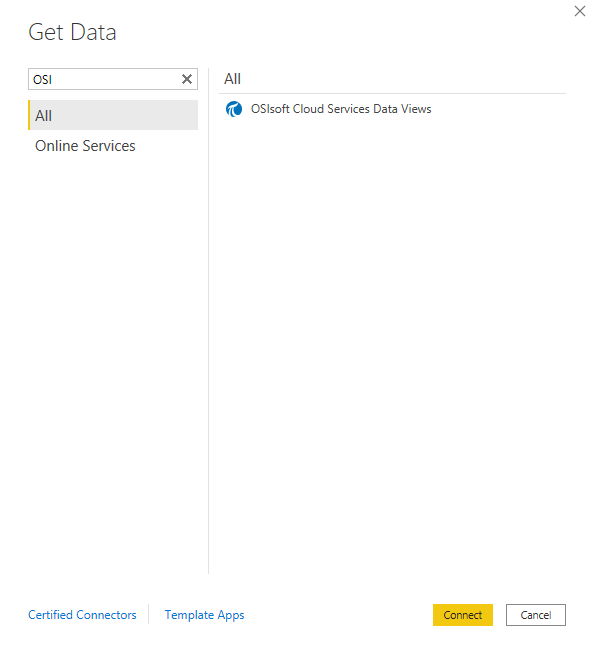
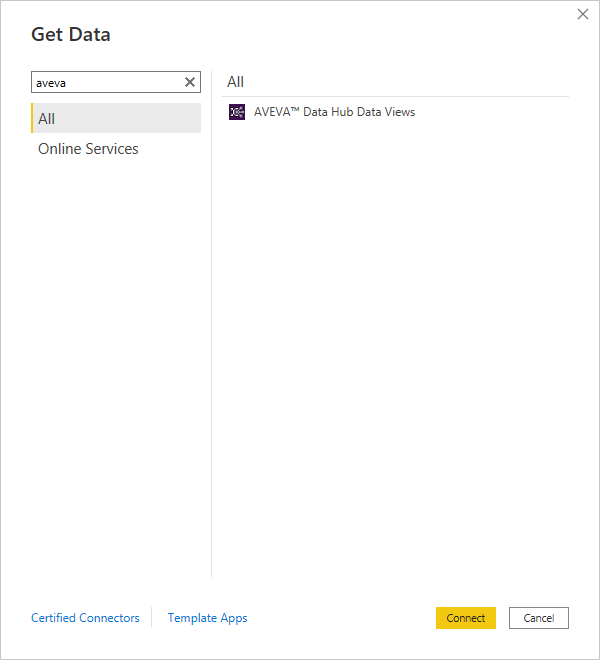
update for Power BI Connector release

diff --git a/content/visualize-data/power-bi-connector.md b/content/visualize-data/power-bi-connector.md
@@ -24,23 +24,27 @@ The following are required before you install and use AVEVA Data Hub Power BI Co
 
 To install the AVEVA Data Hub Power BI Connector, follow these steps:
 
-1. Download the `OCSPowerBIConnector.exe` file from the [OSIsoft Customer portal](https://customers.osisoft.com/s/products).
+1. In the left pane, select **Analytics** > **Data Views**.
 
-1. Install AVEVA Data Hub Power BI Connector by either the setup wizard or silent installation.
+1. Select **Download Power BI Connector**.
 
-    - Setup wizard
+1. On the `Power BI Connector Installer Download` window, select **Download**. When the download completes, close the window.
 
-        - Double-click the `OCSPowerBIConnector.exe` file and select **Next**.
+1. Open the downloaded Power BI Connector installation file, then select **Yes** to confirm running the installation file.
 
-        - (Optional) To install the connector to an on-premises data gateway, select `On-premises data gateway installation` and enter the directory where you want to install the connector.
+1. Accept or change the temporary setup extraction folder and select **OK**.
 
-    - Silent installation
+   The AVEVA Data Hub Power BI Connector Setup Wizard opens.
 
-        - Open a command prompt window and type following command:
+1. Select **Next**.
 
-        `.\OCSDataConnectorInstaller.exe -Y INSTALLDIR="<install path>" /quiet`
+1. (Optional) To install the connector to an on-premises data gateway, select `On-premises data gateway installation` and enter the directory where you want to install the connector.
 
-             **Note:** AVEVA Data Hub Power BI Connector supports silent installation for on-premises data gateway installations.
+1. Select **Next**.
+
+1. Select **Install**.
+
+1. Select **Finish** to exit the Setup Wizard.
 
 ## Retrieve Data Views with Power BI Connector
 
@@ -48,21 +52,21 @@ Use AVEVA Data Hub Power BI Connector to retrieve AVEVA Data Hub data views for 
 
 To retrieve data views, follow these steps:
 
-1. In Microsoft Power BI Desktop, in the entry field of the `Get Data` window, type `OSI`.<br>The AVEVA Data Hub Data Views connector file displays in the `All` pane.
+1. In Microsoft Power BI Desktop, in the entry field of the `Get Data` window, type `AVEVA`.<br>The AVEVA Data Hub Data Views connector file displays in the `All` pane.
 
    ![Get Data](./images/get-data.png)
 
-1. Select the `OSIsoft Cloud Services Data Views` connector file, and then select **Connect**.
+1. Select the `AVEVA Data Hub Data Views` connector file, and then select **Connect**.
 
 1. Select **Continue** in the `Connecting to a third-party service` warning.
 
-1. In the `OSIsoft Cloud Services Data Views` window, enter the tenant and namespace for the data views you want to access, and then select **OK**.
+1. In the `AVEVA Data Hub Data Views` window, enter the namespace for the data views you want to access, and then select **OK**.
 
    The AVEVA Data Hub sign-in window displays if you have not already signed in.
 
-    - If you have not already signed in, select **Sign in as different user** and complete the user authentication process.
+   - Select **Sign in** and complete the user authentication process.
 
-1. In the `OSIsoft Cloud Services Data Views` sign-in window, select **Connect**.
+   - In the `AVEVA Data Hub Data Views` sign-in window, select **Connect**.
 
 1. In the `Navigator` pane, do one of the following: 
 
@@ -84,9 +88,9 @@ To retrieve data views, follow these steps:
 
 Use Microsoft Power BI to edit the query generated from the connector to modify the Start Index and End Index to fixed dates or relative dates, as well as edit the Interpolation Interval (if applicable). You can also use Microsoft Power BI to enable an incremental refresh of data.
 
-1. In Microsoft Power BI, select **Transform data** to view the query with Power Query Editor.
+1. In Microsoft Power BI, select **Transform Data** to view the query with Power Query Editor.
 
-1. Select **View**, and then select **Formula Bar** to view the query function from the connector.
+1. Select the **View** tab, and then select **Formula Bar** to view the query function from the connector.
 
     ![Transform data](./images/mspowerbi-function.png)
     
@@ -96,7 +100,7 @@ Use Microsoft Power BI to edit the query generated from the connector to modify 
 
     - Modify for fixed dates:
     
-       a. Navigate to `APPLIED STEPS` in the `Query Settings` pane, right-click on the parameter labeled, `Invoked Function <nameofdataview>`, and then select `Edit Settings` in the dropdown menu.
+       a. Navigate to `APPLIED STEPS` in the `Query Settings` pane, right-click on the parameter labeled, `Invoked Function <nameofdataview>`, and then select `Edit Settings` in the menu.
         
        b. Edit the parameter values for Start Index and End Index. If applicable, edit the Interpolation Interval.
         
@@ -104,7 +108,7 @@ Use Microsoft Power BI to edit the query generated from the connector to modify 
 
     - Modify for relative dates:
     
-       a. Edit the query function with Power Query M Formula Language code. For information about Power Query M Formula Language code, see the Microsoft [Power Query M formula language](https://docs.microsoft.com/en-us/powerquery-m/) and [Power Query M function reference](https://docs.microsoft.com/en-us/powerquery-m/power-query-m-function-reference) page on functions you can use in your query. Below are common relative time configurations you can use in your query function.
+       a. Edit the query function with Power Query M Formula Language code. For information about Power Query M Formula Language code, see the Microsoft [Power Query M formula language](https://docs.microsoft.com/en-us/powerquery-m/) and [Power Query M function reference](https://docs.microsoft.com/en-us/powerquery-m/power-query-m-function-reference) pages on functions you can use in your query. Below are common relative time configurations you can use in your query function.
 
        | Query function description                                                      | Code                          |
        |-------------------------------------------------------------------------------------------------|-------------------------------|
@@ -112,20 +116,20 @@ Use Microsoft Power BI to edit the query generated from the connector to modify 
        | Rolling 1 day period<br>Start Index: 1 day ago<br>End Index: Now | `Date.AddDays(DateTimeZone.LocalNow(), -1), DateTimeZone.LocalNow()` |
        | Start of last month through now<br>Start Index: First day of last month at midnight<br>End Index: Now | `Date.StartOfMonth(Date.AddMonths(DateTimeZone.LocalNow(), -1)), DateTimeZone.LocalNow()` |
 
-1. Select **Close & Apply**, and then select `Close & Apply` in Power Query Editor to save your query.
+1. Select **OK** and then select **Close & Apply** to save your query.
 
 1. (Optional) Use Microsoft Power BI Desktop to enable an incremental refresh of data.
 
      a. In Microsoft Power BI, select **Transform data** to open Power Query Editor.
      
-     b. Select **Manage Parameters**, and then select `Manage Parameters` in the menu.
+     b. Select **Manage Parameters**, and then select **Manage Parameters** in the menu.
      
      c. Add the following parameters in the `Manage Parameters` window, and then select **OK**.
      
       | Parameter              | Code                          |
-        |---------------------|-------------------------------|
-        | `RangeStart` | Description: `<optional>`<br> Required: `selected`<br> Type: `Date/Time`<br> Suggested Values: `<Any value>, <List of values>, <Query>`<br> Current Value: `<Start date of the date range>` |
-        | `RangeEnd` | Description: `<optional>`<br> Required: `selected`<br> Type: `Date/Time`<br> Suggested Values: `<Any value>, <List of values>, <Query>`<br> Current Value: `<End date of the date range>` |
+      |------------------------|-------------------------------|
+      | `RangeStart` | Description: `<optional>`<br> Required: `selected`<br> Type: `Date/Time`<br> Suggested Values: `<Any value>, <List of values>, <Query>`<br> Current Value: `<Start date of the date range>` |
+      | `RangeEnd` | Description: `<optional>`<br> Required: `selected`<br> Type: `Date/Time`<br> Suggested Values: `<Any value>, <List of values>, <Query>`<br> Current Value: `<End date of the date range>` |
      
       **Note:** `RangeStart` and `RangeEnd` must be named and mixed-cased as is for incremental refresh to work. Type must always be `Date/Time`.
 
@@ -133,9 +137,9 @@ Use Microsoft Power BI to edit the query generated from the connector to modify 
      
      `DateTimeZone.From(RangeStart), DateTimeZone.From(RangeEnd), #duration(0, 1, 0, 0)`
      
-     e. Select **Close & Apply**, and then select `Close & Apply` in Power Query Editor.
+     e. Select **OK** and then select **Close & Apply** in Power Query Editor.
      
-     f. Select **Home**, and in the `Fields` pane, right-click the data view type, and then choose `Incremental Refresh` in the dropdown menu.
+     f. Select **Home**, and in the `Fields` pane, right-click the data view type, and then choose **Incremental Refresh** in the menu.
      
      g. Turn on `Incremental Refresh`, edit the values in the `Store rows in the last` fields, and select **Apply all** to save.
 

diff --git a/content/visualize-data/power-bi-connector/release-notes.md b/content/visualize-data/power-bi-connector/release-notes.md
@@ -4,17 +4,19 @@ uid: PowerBIReleaseNotes
 
 # Release notes
 
-AVEVA Data Hub Power BI Connector 1.1.0.140
+AVEVA Data Hub Power BI Connector 2.0.0.45
 
 ## Overview
 
-The AVEVA Data Hub Power BI Connector allows AVEVA Data Hub Data Views to be imported into Power BI so the data can be visually analyzed or utilized in Power BI reports or dashboards. The Power BI Connector can be installed on Windows Operating System installations of Power BI Desktop. The connector can also be used with the Power BI Service through installation of an On-premises Data Gateway. Data sets using AVEVA Data Hub Data Views can be configured for scheduled refresh in the Power BI Service to create and share dynamically updating Power BI dashboards with data from AVEVA Data Hub.
+The AVEVA Data Hub Power BI Connector allows AVEVA Data Hub Data Views to be imported into Power BI so the data can be visually analyzed or utilized in Power BI reports or dashboards.
+
+The Power BI Connector can be installed on Windows Operating System installations of Power BI Desktop. The connector can also be used with the Power BI Service through installation of an On-premises Data Gateway. Data sets using AVEVA Data Hub Data Views can be configured for scheduled refresh in the Power BI Service to create and share dynamically updating Power BI dashboards with data from AVEVA Data Hub.
 
 ## Known issues
 
 | Work item | Description |
 |-----------|-------------|
-| 248772    | When the same installer runs twice, the dialog appears offering the user the chance to uninstall the connector. If the user clicks on Uninstall option and then clicks on “Back” button, the user is brought to a screen from which she did not start. The uninstall will work, however, if the user moves forward through the screens. |
+| 248772    | When the same installer runs twice, the dialog appears offering the user the chance to uninstall the connector. If the user clicks on Uninstall option and then clicks on the **Back** button, the user is brought to a screen from which she did not start. The uninstall will work, however, if the user moves forward through the screens. |
 
 ## Known limitations
 
@@ -33,14 +35,16 @@ Windows 10, Windows Server 2012 R2, Windows 8.1, Windows Server 2016, Windows Se
 Supported Microsoft Power BI versions:
 
 - Microsoft Power BI Desktop 2.91.884.0 or later
+
 - Microsoft Power BI On-premises Data Gateway 3000.89.6 or later
 
 ### Distribution kit files
 
 The installer is released as a self-extracting executable file that contains:
 
-- OCSDataviews.pqx
-- OCSDataviews_LICENSE
+- ADHDataviews.pqx
+
+- ADHDataviews_LICENSE
 
 ### Installation and upgrade
 
@@ -49,22 +53,26 @@ The installer is released as a self-extracting executable file that contains:
 ##### Before you install
 
 - Power BI Desktop is installed
+
 - User has Administrator rights on the local machine
 
 ##### Installation
 
-The AVEVA Data Hub Power BI Connector installer will extract and install the connector for Power BI. See the accompanying [Power BI Connector User Guide](xref:PowerBI) for detailed Desktop installation instructions.
+The AVEVA Data Hub Power BI Connector installer will extract and install the connector for Power BI.
+
+Please see the accompanying [AVEVA Data Hub Power BI Connector User Guide](xref:PowerBI) for detailed Desktop installation instructions.
 
 #### On-premises Data Gateway installation
 
 ##### Before you install
 
 - Microsoft Power BI On-premises Data Gateway is installed
+
 - User has Administrator rights on the local machine
 
 ##### Installation
 
-See the accompanying [Power BI Connector User Guide](xref:PowerBI) for detailed Desktop installation instructions.
+See the accompanying [AVEVA Data Hub Power BI Connector User Guide](xref:PowerBI) for detailed Desktop installation instructions.
 
 ### Uninstalling Power BI Connector
 
@@ -78,7 +86,7 @@ Because the PI System often serves as a barrier protecting control system networ
 
 ### Vulnerability communication
 
-The practice of publicly disclosing internally discovered vulnerabilities is consistent with the Common Industrial Control System Vulnerability Disclosure Framework developed by the Industrial Control Systems Joint Working Group (ICSJWG). Despite the increased risk posed by greater transparency, AVEVA is sharing this information to help you make an informed decision about when to upgrade to ensure your PI System has the best available protection.
+The practice of publicly disclosing internally discovered vulnerabilities is consistent with the [Common Industrial Control System Vulnerability Disclosure Framework](https://ics-cert.us-cert.gov/sites/default/files/ICSJWG-Archive/ICSJWG_Vulnerability_Disclosure_Framework_Final_1.pdf) developed by the [Industrial Control Systems Joint Working Group (ICSJWG)](https://ics-cert.us-cert.gov/Industrial-Control-Systems-Joint-Working-Group-ICSJWG). Despite the increased risk posed by greater transparency, AVEVA is sharing this information to help you make an informed decision about when to upgrade to ensure your PI System has the best available protection.
 
 For more information, refer to [Ethical Disclosure Policy (https://www.osisoft.com/terms-and-conditions/ethical-disclosure)](https://www.osisoft.com/terms-and-conditions/ethical-disclosure).
 
@@ -86,9 +94,9 @@ To report a security vulnerability, refer to [Report a Security Vulnerability (h
 
 ### Vulnerability scoring
 
-AVEVA has selected the Common Vulnerability Scoring System (CVSS) to quantify the severity of security vulnerabilities for disclosure. To calculate the CVSS scores, AVEVA uses the National Vulnerability Database (NVD) calculator maintained by the National Institute of Standards and Technology (NIST).  AVEVA uses Critical, High, Medium, and Low categories to aggregate the CVSS Base scores. This removes some of the opinion related errors of CVSS scoring.  As noted in the CVSS specification, Base score range from 0 for the lowest severity to 10 for the highest severity.
+AVEVA has selected the [Common Vulnerability Scoring System (CVSS)](https://www.first.org/cvss/v2/guide) to quantify the severity of security vulnerabilities for disclosure. To calculate the CVSS scores, AVEVA uses the [National Vulnerability Database (NVD)](https://nvd.nist.gov/vuln-metrics/cvss/v2-calculator?calculator&amp;.0) calculator maintained by the National Institute of Standards and Technology (NIST).  AVEVA uses Critical, High, Medium, and Low categories to aggregate the CVSS Base scores. This removes some of the opinion related errors of CVSS scoring. As noted in the [CVSS specification](https://www.first.org/cvss/specification-document), Base score range from 0 for the lowest severity to 10 for the highest severity.
 
-### Overview of new vulnerabilities found or fixed
+### Overview of new vulnerabilities fixed or mitigated
 
 This section is intended to provide relevant security-related information to guide your installation or upgrade decision. AVEVA is proactively disclosing aggregate information about the number and severity of AVEVA Data Hub Power BI Connector security vulnerabilities that are fixed in this release.
 
@@ -96,4 +104,4 @@ No security-related information is applicable to this release.
 
 ## Documentation overview
 
-[Power BI Connector User Guide](xref:PowerBI): An introduction to Power BI Connector for the end user. This user guide provides the installation procedure and a usage tutorial on the product features.
+[AVEVA Data Hub Power BI Connector User Guide](xref:PowerBI): An introduction to AVEVA Data Hub Power BI Connector for the end user. This user guide provides the installation procedure and a usage tutorial on the product features.

diff --git a/content/overview/what-is-adh.md b/content/overview/what-is-adh.md
@@ -54,12 +54,10 @@ Developer-friendly REST APIs provide programmatic access to read and write seque
 
 AVEVA Data Hub allows you to integrate data with many different partner applications, data pipelines and workflows, collaboration tools, and business intelligence (BI), data analytics, visualization, and custom software/applications. 
 
-<!--Jason Ames 12/6/21 Commenting out this content until the Power BI connector is added to ADH.
-
 A few examples include these tools: 
 
 - Power BI 
-- Grafana -->
+- Grafana
 
 You can integrate and view AVEVA Data Hub data in the following ways: 
 
